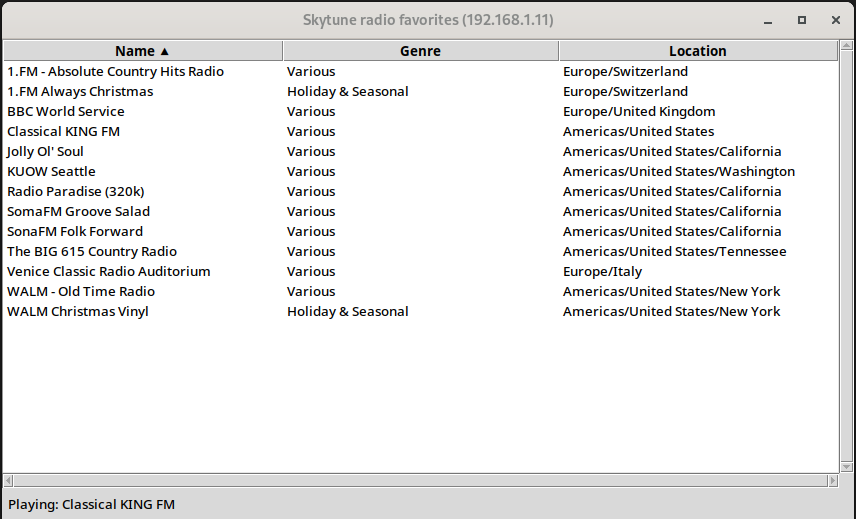
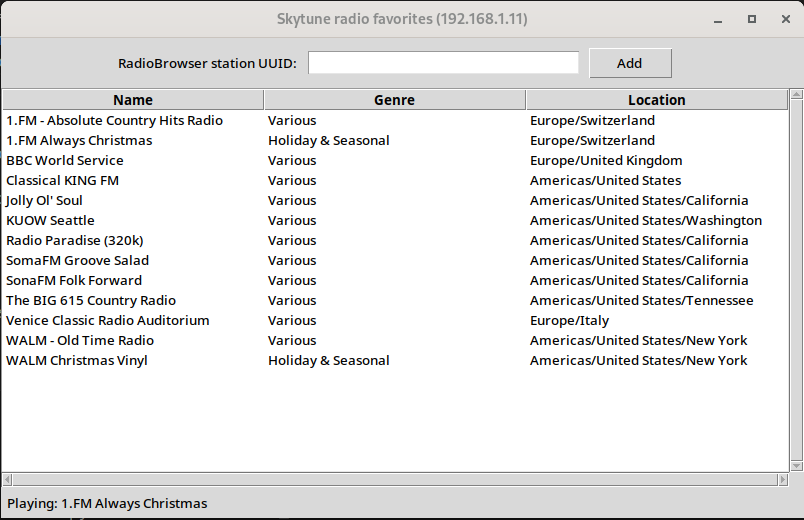
Add rb

Changed region(s): [[0.0, 0.0, 1.0, 1.0], [0.0, 0.0, 0.0311, 0.0308]]

diff --git a/src/py_skytune/ui.py b/src/py_skytune/ui.py
@@ -18,6 +18,7 @@ class Ui:
         self._root: tk.Tk
         self._tree: ttk.Treeview
         self._radio: Radio = Radio()
+        self._columns = ("name", "genre", "location")
         self._setup_ui()
 
     def _setup_ui(self: Ui) -> None:
@@ -26,13 +27,27 @@ class Ui:
         icon = tk.PhotoImage(file=Path(__file__).parent / "data" / "icon.png")
         self._root.tk.call("wm", "iconphoto", self._root._w, icon)  # noqa: SLF001
         self._root.title(f"Skytune radio favorites ({self._radio.ip_address})")
-        columns = ("name", "genre", "location")
+
+        self._root.grid_rowconfigure(0, weight=0)
+        self._root.grid_rowconfigure(1, weight=1000)
+        self._root.grid_columnconfigure(0, weight=1)
+        self._root.grid_columnconfigure(1, weight=1)
+        self._root.grid_columnconfigure(2, weight=1)
 
         tk.Grid.rowconfigure(self._root, index=0, weight=1)
         tk.Grid.columnconfigure(self._root, index=0, weight=1)
 
-        self._tree = ttk.Treeview(self._root, columns=columns, show="headings")
-        self._tree.grid(row=0, column=0, sticky="nsew")
+        add_label = ttk.Label(self._root, text="RadioBrowser station UUID:")
+        add_label.grid(row=0, column=0, padx=(10, 0), pady=(10, 10), sticky="e")
+        add_box = ttk.Entry(self._root, name="add_box")
+        add_box.bind("<Return>", self._add)
+        add_box.grid(row=0, column=1, padx=(10, 10), pady=(10, 10), sticky="we")
+        add_btn = ttk.Button(self._root, text="Add", name="add_btn")
+        add_btn.bind("<Button-1>", self._add)
+        add_btn.grid(row=0, column=2, padx=(0, 10), pady=(10, 10), sticky="w")
+
+        self._tree = ttk.Treeview(self._root, columns=self._columns, show="headings")
+        self._tree.grid(row=1, column=0, columnspan=3, sticky="nsew")
         self._tree.bind("<Button-3>", self._context_menu)
         self._tree.bind("<Double-Button-1>", self._play)
 
@@ -42,18 +57,24 @@ class Ui:
         self._tree.bind("<Motion>", self._tree_motion)
 
         now_playing_label = ttk.Label(self._root, text="", name="now_playing")
-        now_playing_label.grid(row=2, column=0, padx=(5, 0), pady=(5, 5), sticky="w")
+        now_playing_label.grid(row=3, column=0, columnspan=4, padx=(5, 0), pady=(5, 5), sticky="w")
 
         self._menu = tk.Menu(self._tree, tearoff=0)
         self._menu.add_command(label="Play", command=self._play)
+        self._menu.add_command(label="Delete", command=self._delete)
+        self._menu.add_separator()
 
-        vsb.grid(column=4, row=0, sticky="ns")
-        hsb.grid(column=0, row=1, sticky="ew", columnspan=3)
+        vsb.grid(column=4, row=1, sticky="ns")
+        hsb.grid(column=0, row=2, sticky="ew", columnspan=3)
 
         self._tree.heading(0, text="Favorites", command=lambda c=0: self._col_sort(c, 0))
+        self._render_favorites()
 
+    def _render_favorites(self: Ui) -> None:
+        """Add the favorites to the treeview."""
+        self._tree.delete(*self._tree.get_children())
         favorites = self._radio.favorites
-        for column in columns:
+        for column in self._columns:
             max_width = max(
                 [font.Font().measure(favorite.name) for favorite in favorites]
                 + [font.Font().measure(getattr(favorite, column)) for favorite in favorites],
@@ -71,6 +92,24 @@ class Ui:
             ]
             self._tree.insert("", "end", values=values, tags=(favorite.uid,))
         self._now_playing()
+
+    def _add(self: Ui, event: tk.Event | None = None) -> str:
+        """Add a favorite from radio browser.
+
+        Args:
+            event: The event that triggered the addition.
+        """
+        add_btn = event.widget.master.children["add_btn"]
+        add_box = event.widget.master.children["add_box"]
+        add_btn.configure(state="disabled", text="Adding...")
+        self._root.update()
+        uuid = add_box.get()
+        self._radio.add_by_rb_uuid(uuid)
+        self._render_favorites()
+        add_box.delete(0, "end")
+        add_btn.configure(state="normal", text="Add")
+        self._root.update()
+        return "break"
 
     def _col_sort(self: Ui, col: str, descending: int) -> None:
         """Sort the treeview by the given column.
@@ -116,6 +155,19 @@ class Ui:
                 self._menu.tk_popup(event.x_root, event.y_root, 0)
             finally:
                 self._root.grab_release()
+
+    def _delete(self: Ui) -> None:
+        """Delete the selected favorite."""
+        input_id = self._tree.selection()
+        item_id = self._tree.item(input_id, "tag")[0]
+        self._root.after_cancel(self._now_playing)
+        self._root.children["now_playing"].config(
+            text=f"Deleting: {self._tree.item(input_id, 'values')[0]}"
+        )
+        self._root.update()
+        self._radio.delete_favorite(int(item_id))
+        self._render_favorites()
+        self._now_playing()
 
     def _tree_motion(self: Ui, event: tk.Event) -> None:
         """Highlight the row the mouse is over.

diff --git a/src/py_skytune/favorites.py b/src/py_skytune/favorites.py
@@ -72,6 +72,7 @@ class Favorite:
         """Post init."""
         # the skytune api may return html encoded chars
         self.name = html.unescape(self.name)
+        self.url = html.unescape(self.url)
 
     def json(self: Favorite) -> dict[str, str]:
         """Get the JSON representation."""
